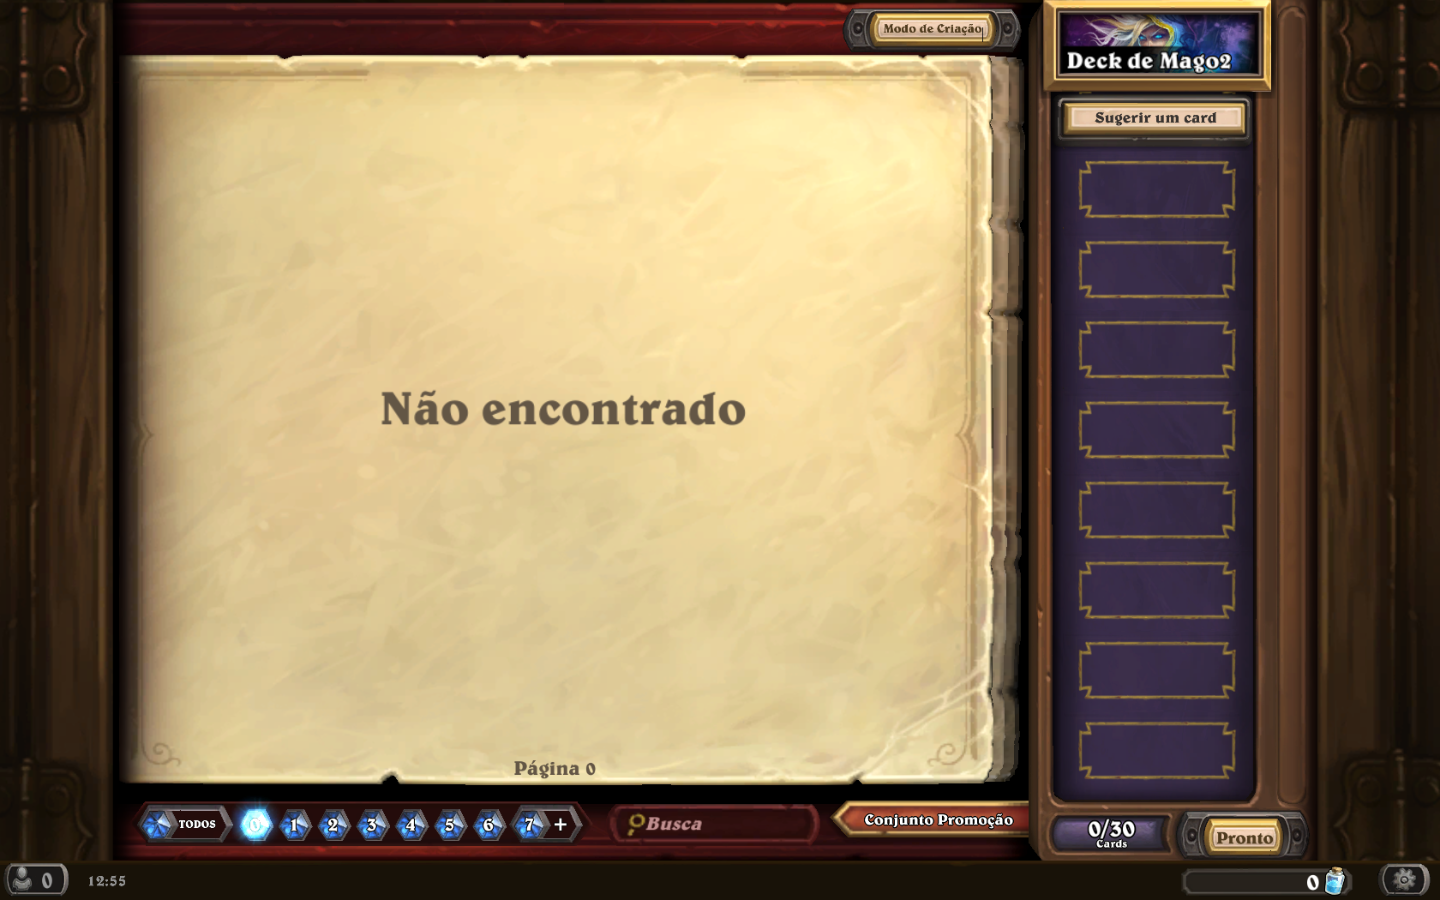
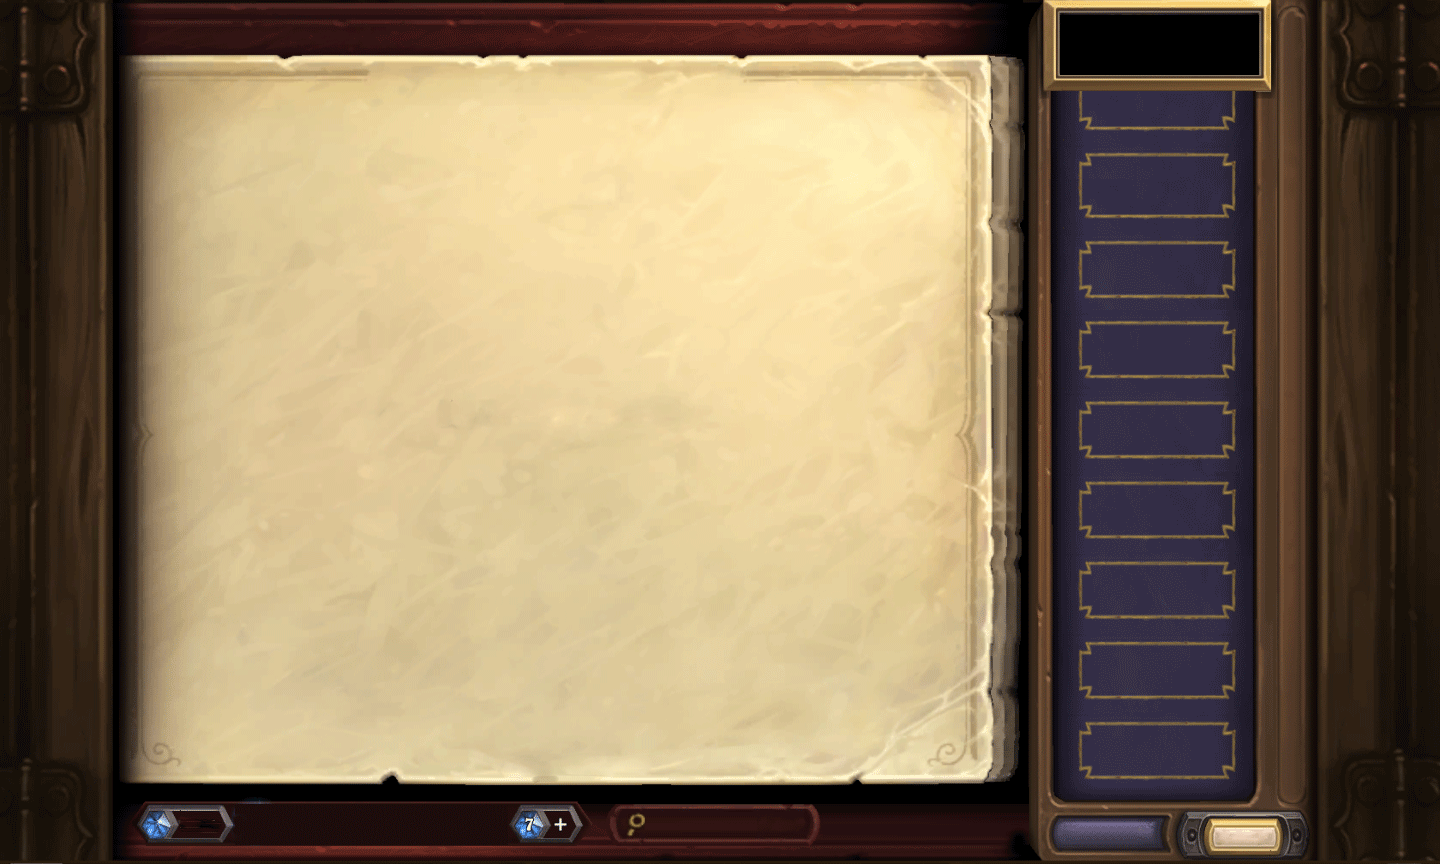
Added lots of styling to select card screen

diff --git a/style/css/cardSelect.css b/style/css/cardSelect.css
@@ -20,9 +20,8 @@
     width: 100px;
     height: 100%;
     position: absolute;
-    
-    cursor: pointer;
     background-color: yellow;
+    cursor: pointer;
     top: 0px;
     left: 0px;   
 }
@@ -33,7 +32,6 @@
     position: absolute;
     
     cursor: pointer;
-    background-color: yellow;
     top: 0px;
     right: 0px;
 }
@@ -42,9 +40,8 @@
 #cardsArea_container
 {
     height: 400px;
-    top:    80px;
+    top:    60px;
     position: relative;
-    background-color: gray;
     overflow: hidden;
 }
 
@@ -52,8 +49,7 @@
 {
     width: 100%;
     height: 400px;
-    left: 15px;
-    top:    0px;
+    top:    20px;
     position: relative; 
     z-index: 1;
     pointer-events: none;
@@ -64,8 +60,8 @@
     height: 100%;
     margin-left: 735px;
     display: block;
-    border: 3px solid green;
     overflow-y: scroll;
+    width: 190px;
 }
 
 
@@ -74,9 +70,6 @@
 
 .card_container
 {
-    width: 150px;
-    height: 200px;
-    display: block;
     float: left;
     
 }
@@ -86,55 +79,58 @@
     width: 150px;
     height: 200px;
     /*margin-top: 50px;*/
-    /*margin-bottom: 50px;*/
-    /*margin-left: 25px;*/
-    /*margin-right: 25px;*/
+    /*margin-bottom: -20px;*/
+    /*margin-left: -10px;*/
     
-    background-size:contain;
+    background-size:cover;
     background-repeat:no-repeat;
     background-position:center;   
 }
 
 #filtersArea
 {
-    top: 80px;
+    top: 136px;
+    overflow: auto;
+    clear: both;
+}
+
+#costOfMana {
+    float: left;
+    left: 20px;
     overflow: auto;
 }
 
 .mana_cost
 {
     display: inline-block;
-    width: 30px;
-    height: 30px;
-    line-height: 30px;
-    margin-left: -5px;
+    width: 29px;
+    height: 29px;
+    line-height: 29px;
+    margin-left: -1px;
     background-image: url("../imgs/general/mana.png");
     background-size: contain;
     cursor: pointer;
     text-align: center;
+    float: left;
 }
 
 .mana_cost:first-child {
     margin-left: 0;
+    margin-right: 15px;
     background-image: none;
-}
-
-#cost_plus
-{
-    background-image: none;
-    display: none;
 }
 
 #searchBar {
-    color: black;
-    left: 50px;
+    float: left;
+    color: white;
+    left: 83px;
 }
 
 textarea#text_filter {
     resize: none;
     width: 150px;
-    height: 30px;
-    line-height: 30px;
+    height: 29px;
+    line-height: 29px;
     padding: 0 0 0 10px;
     margin: 0;
     border: none;
@@ -156,5 +152,51 @@ textarea#text_filter {
 #classSelector_container
 {
     overflow: auto;
-    top: 80px;
+    top: 10px;
+}
+
+/*Right Col*/
+#selectedCards {
+    top: 61px;
+    font-size: 5px;
+    height: 500px;
+    width: 160px;
+    overflow-y: scroll;
+}
+
+.cardThumbnailContainer {
+    height: 23px;
+    width: 145px;
+    background-image: url('../imgs/cards/cardThumbnail.png');
+    background-size: 100% 100%;
+    line-height: 23px;
+}
+
+.cardThumbnailContainer > * {
+    display: inline-block;
+}
+
+.cardThumbnail_quantity {
+    position: absolute;
+    right: 6px;
+    color: yellow;
+}
+
+.cardThumbnail_name {
+    position: absolute;
+    left: 24px;
+    width: 100px;
+    height: 23px;
+    overflow: hidden;
+}
+
+.cardThumbnail_mana {
+    position: absolute;
+    left: 5px;
+}
+
+#buttons {
+    position: absolute;
+    bottom: 2px;
+    right: 30px;
 }

diff --git a/html/cardSelect.html b/html/cardSelect.html
@@ -11,7 +11,7 @@
     </div>
     <div id="filtersArea">
         <div id="costOfMana">
-            <div id="cost_all" class="mana_cost">all</div>
+            <div id="cost_all" class="mana_cost">All</div>
             <div id="cost_0" class="mana_cost">0</div>
             <div id="cost_1" class="mana_cost">1</div>
             <div id="cost_2" class="mana_cost">2</div>
@@ -20,10 +20,9 @@
             <div id="cost_5" class="mana_cost">5</div>
             <div id="cost_6" class="mana_cost">6</div>
             <div id="cost_7" class="mana_cost">7</div>
-            <div id="cost_plus" class="mana_cost">+</div>
         </div>
         <div id="searchBar">
-            <textarea id="text_filter" name="text_filter" placeholder="search"></textarea>
+            <textarea id="text_filter" name="text_filter" placeholder="Search"></textarea>
         </div>
     </div>
 </div>

diff --git a/style/css/general.css b/style/css/general.css
@@ -69,7 +69,7 @@ div {
 }
 .wrapper {
     width: 1024px;
-    height: 640px;
+    height: 608px;
     margin: 0 auto;
     overflow: auto;
     background-size: contain;
